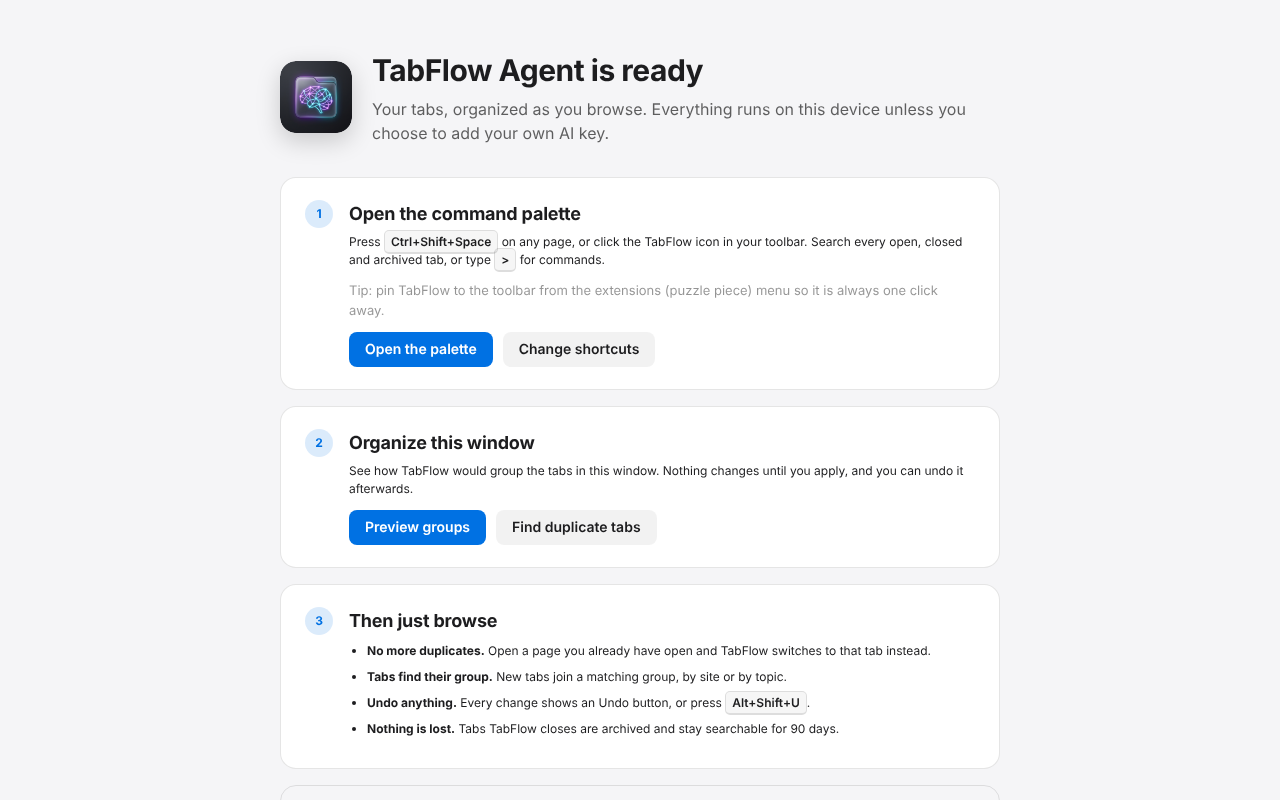
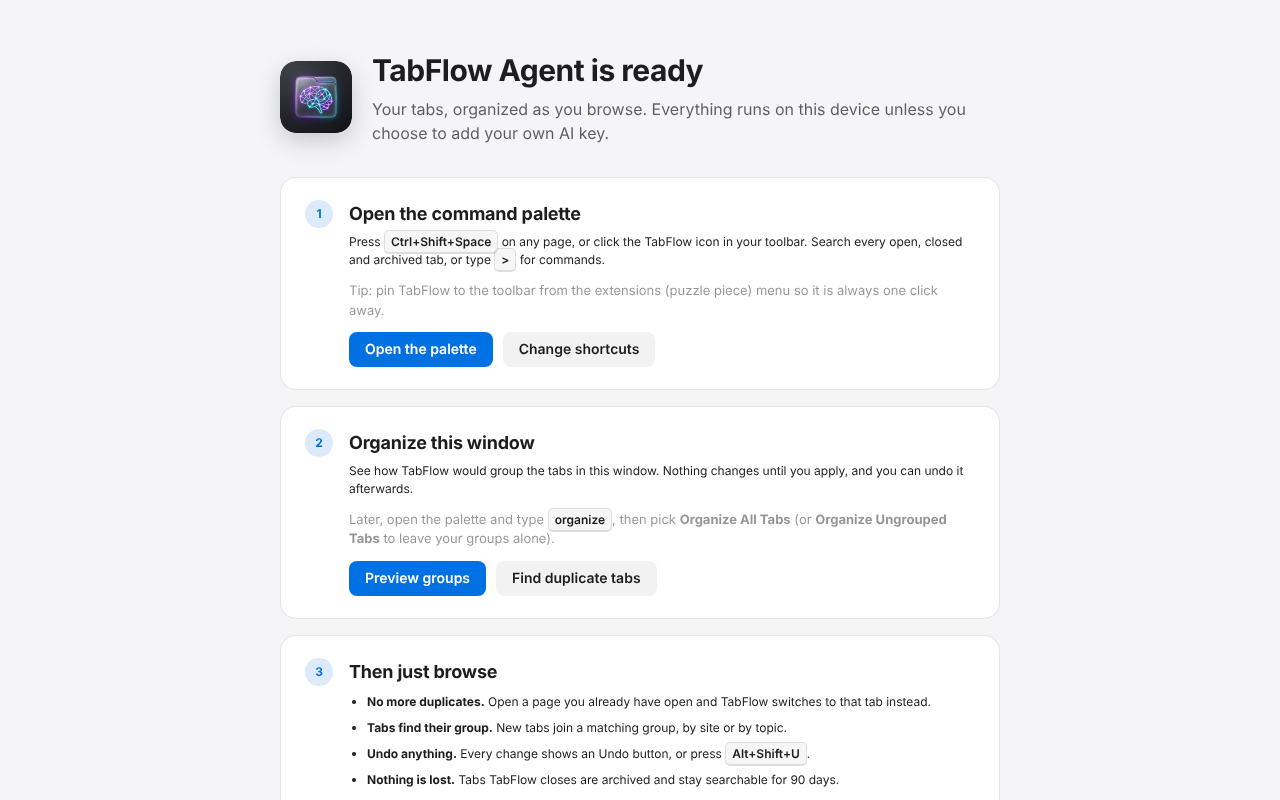
chore: release 1.1.1 (#16)
- Version 1.1.1 (manifest, package.json, package-lock.json).
- Ships #15: on browser pages the palette opens as the toolbar popup
  instead of a separate window; one scrollbar in the standalone palette;
  plain search finds commands ("organize"); welcome page explains how to
  organize later; Export Backup works from the standalone palette.
- CHROMEWEBSTORE.md: version history, description and reviewer test steps.
- FIREFOX_ADDONS.md: 1.1.1 update steps, release notes, reviewer notes.
- store-assets/5-welcome.png: re-rendered with the new organize hint.
- No permission changes.

Claude-Session: https://claude.ai/code/session_013ZzMgPYGUdhGRhdYRiMW3S

Changed region(s): [[0.2188, 0.625, 0.75, 1.0], [0.6562, 0.7812, 0.7188, 0.8438]]

diff --git a/CHROMEWEBSTORE.md b/CHROMEWEBSTORE.md
@@ -1,6 +1,6 @@
 # Chrome Web Store Listing — TabFlow Agent
 
-> Last Updated: 2026-10-12 · Current version: **1.1.0**
+> Last Updated: 2026-10-22 · Current version: **1.1.1**
 > Upload `tabflow-chrome.zip` (built by `scripts/pack.sh`). Run `npm run test:e2e` in `extension/` first.
 
 ## Store Listing
@@ -21,7 +21,7 @@ TABS THAT ORGANIZE THEMSELVES
 "Organize All Tabs" proposes tab groups by topic (Travel, Development, News…). You see the groups first, can rename any of them, and nothing changes until you apply. New tabs you open later join a matching group automatically.
 
 ONE SHORTCUT TO FIND ANY TAB
-Press Ctrl+Shift+Space (Cmd+Shift+Space on Mac), or click the toolbar icon, to search every open tab, recently closed tab and archived tab. Type > for commands.
+Press Ctrl+Shift+Space (Cmd+Shift+Space on Mac), or click the toolbar icon, to search every open tab, recently closed tab and archived tab. Commands show up as you type (try "organize"), or type > to list them all.
 
 UNDO ANYTHING
 Every change TabFlow makes can be undone: from the notice, from the top of the palette, or with Alt+Shift+U.
@@ -51,8 +51,9 @@ English
 > No account, login or API key is needed; every feature works with the free on-device AI.
 > 1. After installing, a welcome page opens. Click "Preview groups" to see proposed tab groups for the current window, then "Apply groups". Click "Undo" to restore.
 > 2. Open https://example.com in a tab. Open a new tab (Ctrl+T) and go to https://example.com again: TabFlow switches to the first tab and shows "Already open — switched to your open tab" with an Undo button.
-> 3. Press Ctrl+Shift+Space (or click the toolbar icon) on any web page to open the palette and search your tabs. Type > to see commands such as "Close Duplicate Tabs" and "Organize All Tabs".
-> 4. The first grouping downloads a small AI model (about 25 MB) once; progress is shown in the preview.
+> 3. Press Ctrl+Shift+Space (or click the toolbar icon) on any web page to open the palette and search your tabs. Type "organize" to find "Organize All Tabs", or > to list every command.
+> 4. On a browser page such as chrome://extensions or the new tab page, the same shortcut or icon opens the palette as the toolbar popup (browsers don't allow extensions to draw on their own pages).
+> 5. The first grouping downloads a small AI model (about 25 MB) once; progress is shown in the preview.
 
 ## Graphics & Assets
 
@@ -143,7 +144,8 @@ https://github.com/snvishna/tabflow-agent
 |---------|------|---------|--------|
 | 1.0.0 | 2026-10-04 | Initial release featuring Reflex deduplication and Cognitive grouping. | Rejected (Yellow Magnesium) |
 | 1.0.1 | 2026-10-12 | Fixes install failure on Windows/Linux (invalid keyboard shortcut), stops blank/new-tab pages being closed as duplicates, bundles the local AI runtime instead of loading it from a CDN, drops the unused `alarms` permission, and trims the package to runtime files only. | Superseded by 1.1.0 (not submitted) |
-| 1.1.0 | 2026-10-12 | Everything in 1.0.1, plus: duplicate handling only for new tabs, never closes different pages on the same site, archives everything it closes; Undo for every action (notice, palette, Alt+Shift+U); preview before organizing, closing duplicates or archiving; auto-group new tabs; per-site rules; configurable archive days with optional auto-archive (`alarms` is back and used); welcome page; tab-count badge; light/dark theme; model download progress. | Ready to submit |
+| 1.1.0 | 2026-10-12 | Everything in 1.0.1, plus: duplicate handling only for new tabs, never closes different pages on the same site, archives everything it closes; Undo for every action (notice, palette, Alt+Shift+U); preview before organizing, closing duplicates or archiving; auto-group new tabs; per-site rules; configurable archive days with optional auto-archive (`alarms` is back and used); welcome page; tab-count badge; light/dark theme; model download progress. | Live |
+| 1.1.1 | 2026-10-22 | On browser pages (new tab page, chrome://, about:, extension stores) the palette now opens as the toolbar popup instead of a separate, oddly placed window; the standalone palette has a single scrollbar; plain search also finds commands (type "organize"); the welcome page explains how to organize later; Export Backup works from the standalone palette. No permission changes. | Ready to submit |
 
 ## Review Notes
 

diff --git a/FIREFOX_ADDONS.md b/FIREFOX_ADDONS.md
@@ -1,22 +1,32 @@
 # Firefox Add-ons (AMO) Publishing Guide
 
-## Updating the live listing to 1.1.0
+## Updating the live listing to 1.1.1
 
-TabFlow Agent 1.0.0 is live on AMO (https://addons.mozilla.org/addon/tabflow-agent/). To ship 1.1.0:
+TabFlow Agent 1.1.0 is live on AMO (https://addons.mozilla.org/addon/tabflow-agent/). To ship 1.1.1:
 
 1. `bash scripts/pack.sh` from the repo root (and `npm run test:e2e` in `extension/` with `FF_BIN` set).
 2. AMO Developer Hub → TabFlow Agent → **Upload New Version** → upload `tabflow-firefox.zip`.
 3. When asked whether the add-on uses a build step, answer **Yes** and upload `tabflow-source.zip`.
 4. Paste the release notes and reviewer notes below.
 
-**Listing (Edit Product Page → Describe Add-on)**: update to match 1.1.0. AMO renders a subset of Markdown/HTML.
+**Release notes (1.1.1)**
+> - On browser pages (new tab, about:debugging and other about: pages, addons.mozilla.org) the palette now opens as the toolbar popup instead of a separate window in the corner of the screen. The shortcut opens and closes it there too.
+> - The palette no longer shows two scrollbars when it opens outside a web page.
+> - Commands now appear in normal search: type "organize" to group your tabs, no ">" needed. The welcome page explains how to organize later.
+> - Export Backup works from the toolbar popup; Import Backup opens a small window for the file picker.
+
+**Notes to reviewer (1.1.1)**
+> Same build as 1.1.0 (see below); no new permissions. The change uses `action.setPopup` per tab and `action.openPopup()` from the keyboard command so the palette can open on pages where content scripts are not allowed.
+> Test: open about:debugging, press Ctrl+Shift+Space or click the toolbar icon; the palette opens as the toolbar popup. On https://example.com it opens over the page as before.
+
+**Listing (Edit Product Page → Describe Add-on)**: keep in sync with `CHROMEWEBSTORE.md`. AMO renders a subset of Markdown/HTML.
 - Summary (max 250 characters):
   > Stops duplicate tabs, groups related tabs by topic, and finds any open, closed or archived tab from one shortcut. Runs on a private on-device AI model, with optional Claude, OpenAI or Gemini keys. Undo for everything.
 - Description: the "Detailed Description" from `CHROMEWEBSTORE.md`.
 - Categories: Tabs, Search Tools. Homepage: https://snvishna.github.io/tabflow-agent/. Support: https://github.com/snvishna/tabflow-agent/issues
 - Screenshots: `store-assets/1-5*.png` with the captions in `CHROMEWEBSTORE.md`.
 
-**Release notes (1.1.0)**
+**Release notes (1.1.0, for reference)**
 > - Undo for everything: closing duplicates, archiving, organizing and switching to an already-open tab can all be undone (notice, palette, or Alt+Shift+U).
 > - Preview before applying: see proposed groups (and rename them) or the tabs that would be closed before anything changes.
 > - Duplicate handling now only applies to newly opened tabs and never closes different pages on the same site; closed duplicates are archived.
@@ -26,7 +36,7 @@ TabFlow Agent 1.0.0 is live on AMO (https://addons.mozilla.org/addon/tabflow-age
 > - Welcome page, tab count on the toolbar icon, light and dark theme, download progress for the on-device AI model.
 > - The on-device AI runtime is now bundled instead of loaded from a CDN.
 
-**Notes to reviewer (1.1.0)**
+**Notes to reviewer (1.1.0, build instructions still current)**
 > Build from the source ZIP with Node.js 22 and npm 10+: `cd extension && npm ci && node build.mjs`.
 > This bundles `src/background.js` (and its imports: Dexie, @xenova/transformers) into `dist/background.js` with esbuild, and copies the ONNX Runtime WebAssembly files `ort-wasm.wasm` and `ort-wasm-simd.wasm` from `node_modules/@xenova/transformers/dist/` into `dist/`. All other files (`src/*.js`, `*.html`, `src/*.css`) are shipped unmodified.
 > `build.mjs` replaces two `eval`/`new Function` patterns in the bundled dependencies with safe equivalents, because they are not allowed in MV3.

diff --git a/docs/publishing-strategy.md b/docs/publishing-strategy.md
@@ -6,8 +6,8 @@ TabFlow Agent uses only browser APIs and IndexedDB (no native binaries), so user
 
 | Store | Package | Status | Guide |
 |---|---|---|---|
-| Firefox Add-ons (AMO) | `tabflow-firefox.zip` + `tabflow-source.zip` | Live (1.1.0): [listing](https://addons.mozilla.org/addon/tabflow-agent/) | [FIREFOX_ADDONS.md](../FIREFOX_ADDONS.md) |
-| Chrome Web Store | `tabflow-chrome.zip` | Live (1.1.0): [listing](https://chromewebstore.google.com/detail/tabflow-agent/mcejjnakabmfflpbjbffajjbooclihbg) | [CHROMEWEBSTORE.md](../CHROMEWEBSTORE.md) |
+| Firefox Add-ons (AMO) | `tabflow-firefox.zip` + `tabflow-source.zip` | Live (1.1.0; 1.1.1 ready to upload): [listing](https://addons.mozilla.org/addon/tabflow-agent/) | [FIREFOX_ADDONS.md](../FIREFOX_ADDONS.md) |
+| Chrome Web Store | `tabflow-chrome.zip` | Live (1.1.0; 1.1.1 ready to upload): [listing](https://chromewebstore.google.com/detail/tabflow-agent/mcejjnakabmfflpbjbffajjbooclihbg) | [CHROMEWEBSTORE.md](../CHROMEWEBSTORE.md) |
 | Microsoft Edge Add-ons | `tabflow-chrome.zip` | Not yet submitted (Edge users can install from the Chrome Web Store) | [MICROSOFT_EDGE.md](../MICROSOFT_EDGE.md) |
 
 ## Release checklist
